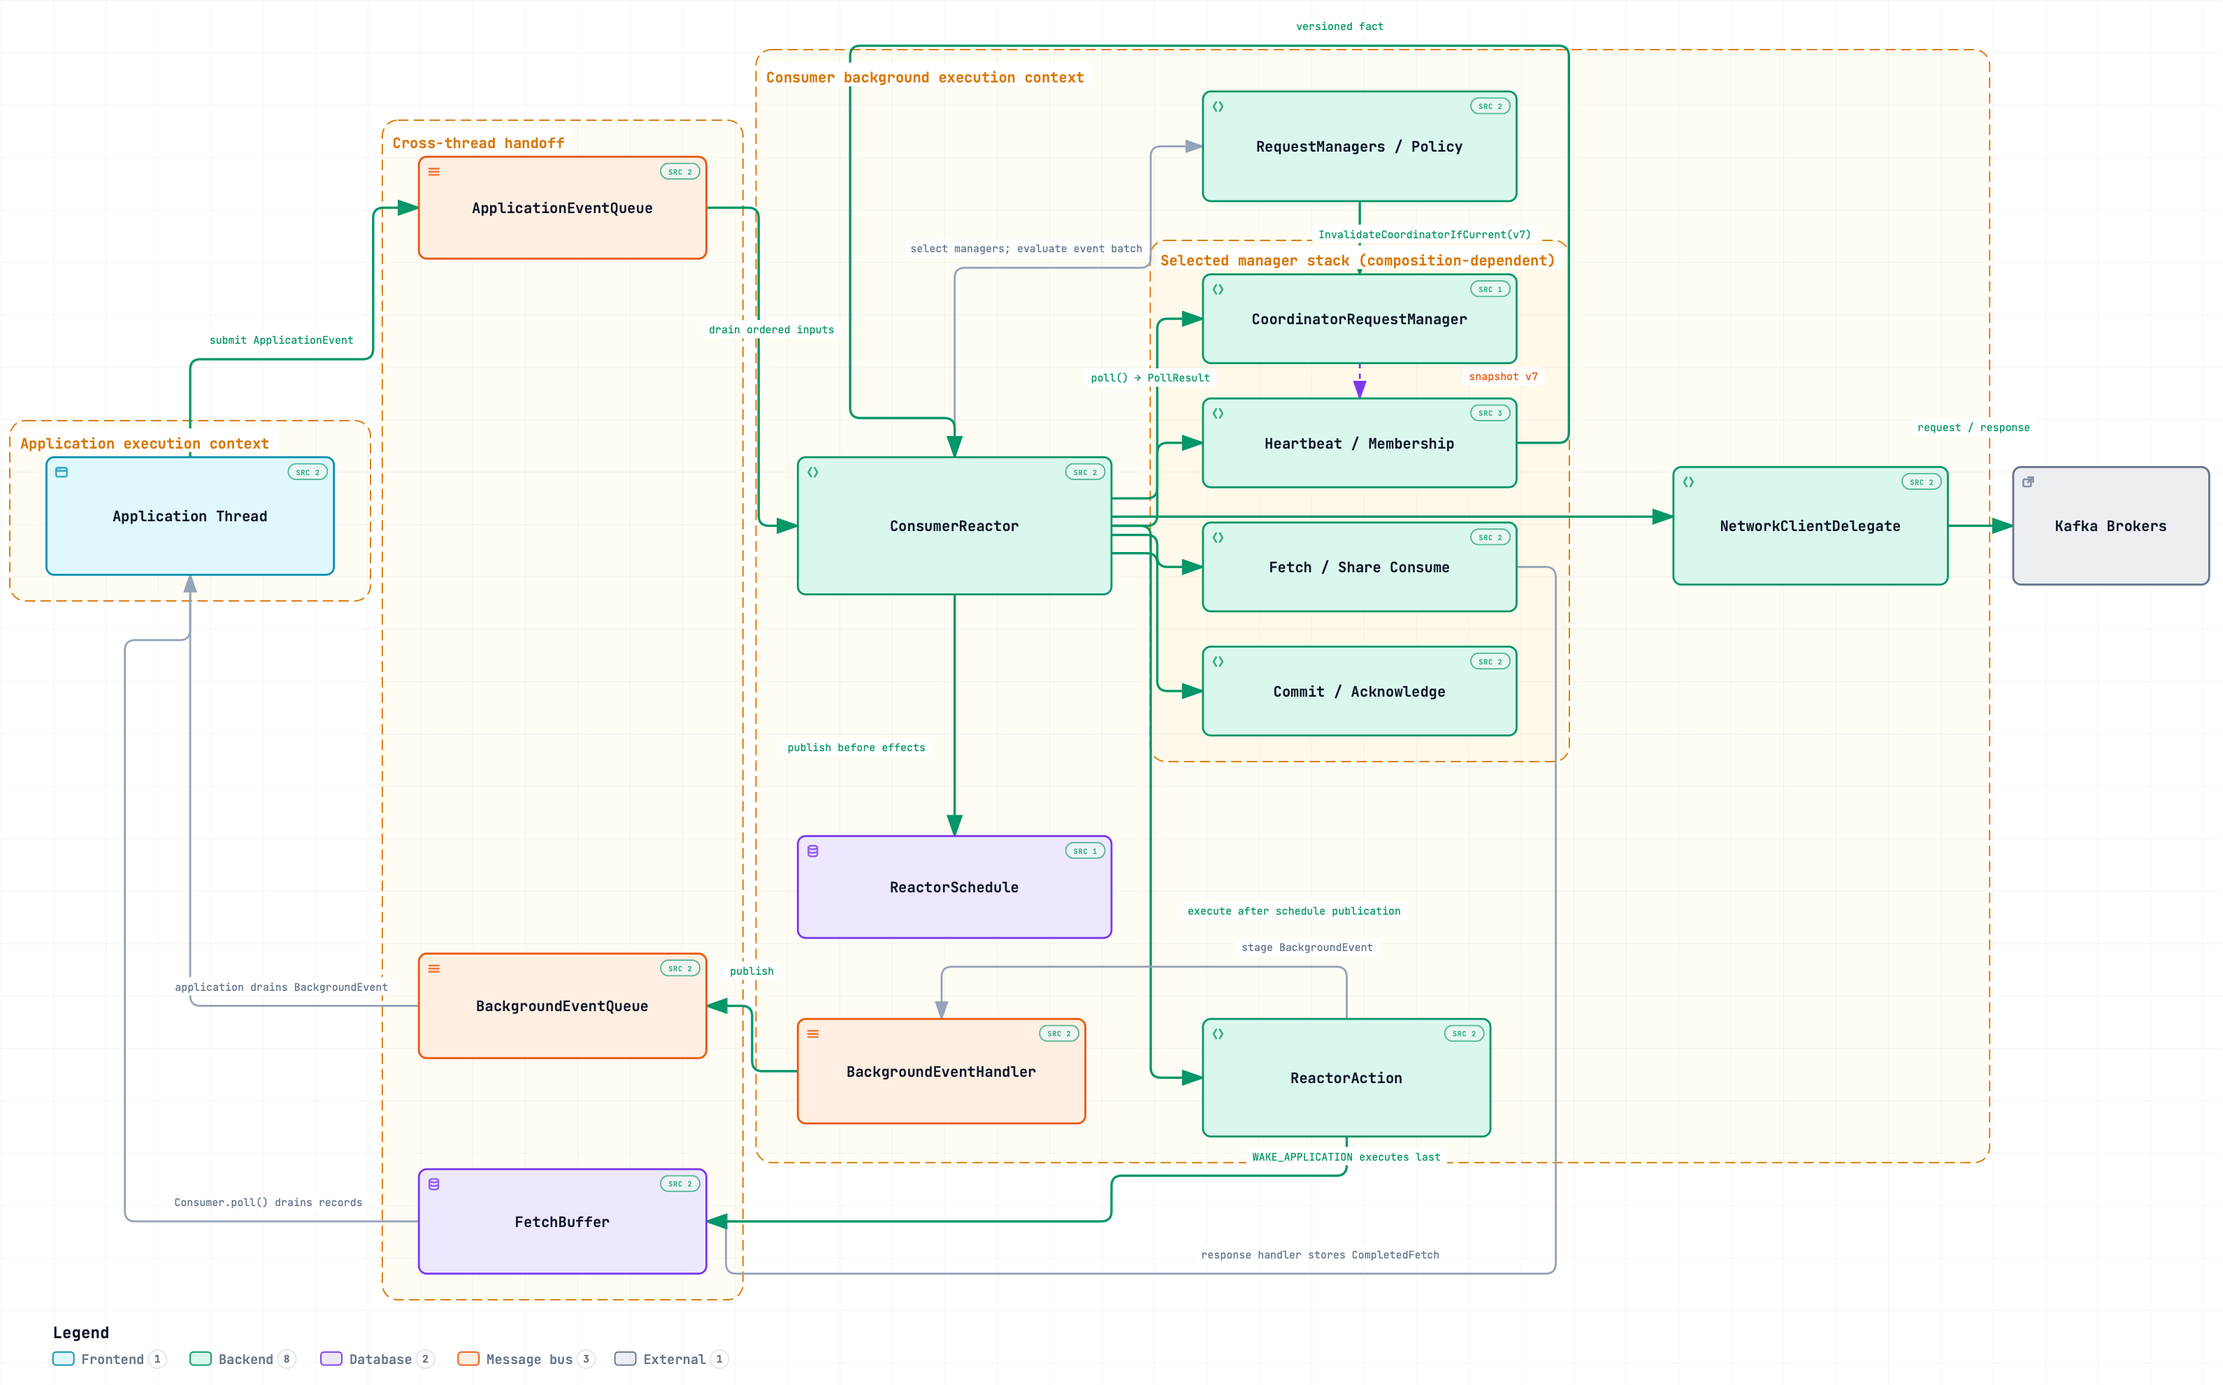
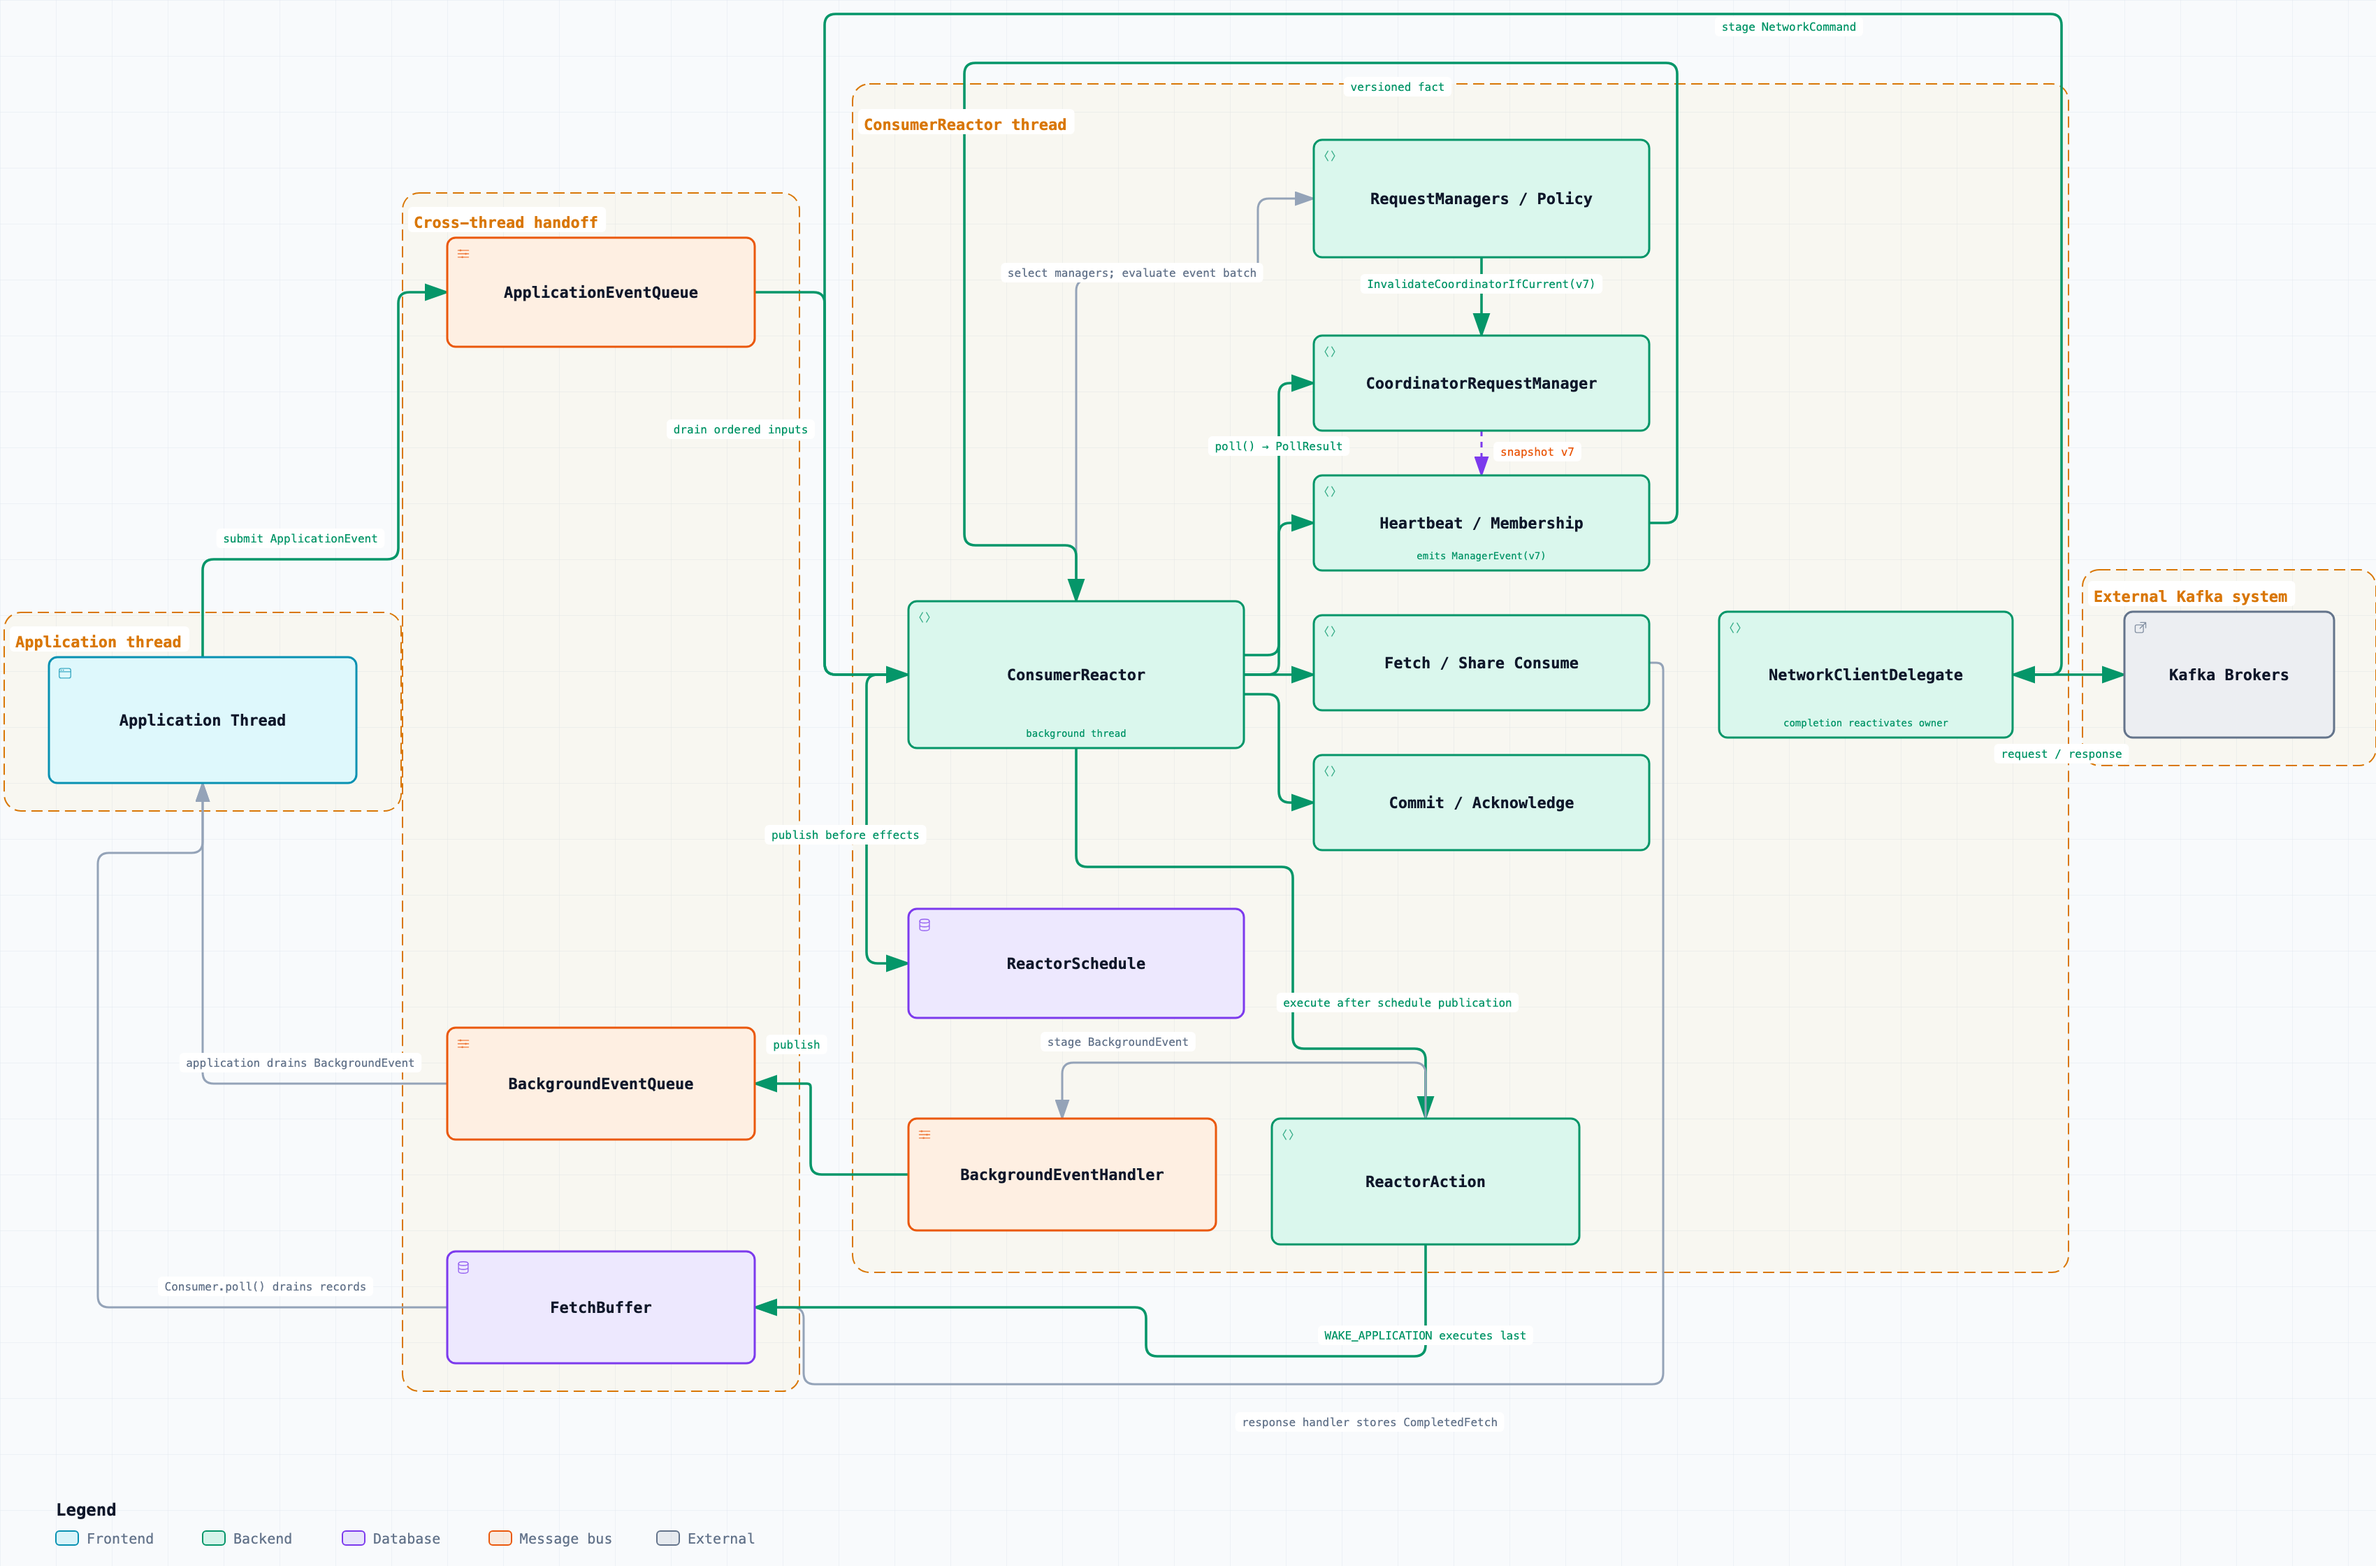
KAFKA-20995: Clarify reactor concurrency model

diff --git a/docs/design/kip-introduce-consumer-reactor-state-management-event-processing.md b/docs/design/kip-introduce-consumer-reactor-state-management-event-processing.md
@@ -27,28 +27,36 @@ Jira: [KAFKA-20995](https://issues.apache.org/jira/browse/KAFKA-20995)
 
 ## Summary
 
-Request-manager waiting has three distinct conditions: work is available now, time may make work eligible, or an
-external input must arrive first. The current deadline-based result records only when another poll may occur. For an
-empty result, it does not identify which condition applies.
+The async consumer already has a reactor-like background loop, but it does not define one concurrency model for
+manager state, progress, waiting, and application-visible effects. Request-manager deadlines record when another poll
+may occur, but an empty result does not distinguish work available now, a time-driven retry, and a wait for external
+input. State and completion paths can consequently publish different parts of one decision in different orders.
 
-The async regular and share consumers already use a background loop and request managers, but wait, wakeup,
-completion, and publication decisions remain distributed across paths that may observe different state. This has
-contributed to busy loops, wakeup defects, stale completion handling, and state-publication races.
+This KIP formalizes the existing loop as `ConsumerReactor`, the final authority for cross-manager input ordering,
+wait aggregation, and application-visible publication. It establishes four behavioral rules:
 
-`ConsumerNetworkThread` already behaves as a reactor-like background loop: it drains application inputs, polls
-request managers, drives network I/O, and processes completions. This KIP formalizes that loop as `ConsumerReactor`,
-the final cross-manager coordination and publication boundary. Managers retain local state and policy while reporting
-produced work and one typed next-poll condition. The reactor orders inputs, combines manager timing into one immutable
-scheduling publication, and then releases the corresponding application-visible effects. During migration, the
-publication carries separate reactor and application-wait projections.
+1. **Single-writer manager state.** Each mutable manager or protocol state has one manager or driver owner executing
+   on the reactor thread. `ConsumerReactor` orders access and invokes the owner; it does not implement that owner's
+   domain policy.
+2. **Published application view.** The application thread reads immutable published state and consumes records or
+   events from explicit cross-thread handoff buffers. It submits commands instead of directly mutating manager or
+   protocol state.
+3. **Typed next-poll condition.** A manager reports produced transport intents or facts together with one explicit
+   next-poll condition: poll immediately with produced output, retry after time can change eligibility, or await an
+   admitted external input.
+4. **Publication before effect.** The reactor publishes the state-derived wait decision before completing, notifying,
+   or waking the application for that decision.
+
+Managers retain local policy. The reactor combines their typed results into one immutable `ReactorSchedule` and then
+executes the corresponding `ReactorAction` values. During migration, the schedule carries separate reactor and
+application-wait projections.
 
 The proposal applies to `AsyncKafkaConsumer`, `ShareConsumerImpl`, and Streams paths using the async background
 kernel. It preserves thread topology, protocols, public consumer APIs, callback execution, and consumer-specific
 rules. `ClassicKafkaConsumer` keeps its existing execution model.
 
-The community decision covers typed manager output, single-owner cross-manager state changes, publication before
-reactor-owned application effects, and the four diagnostic counters in Public Interfaces. Internal class placement,
-protocol-driver extraction, and POC lifecycle experiments remain implementation or follow-up work.
+The community decision covers these four rules and the diagnostic counters in Public Interfaces. Internal class
+placement, protocol-driver extraction, and POC lifecycle experiments remain implementation or follow-up work.
 
 ## Motivation
 
@@ -233,6 +241,11 @@ paths therefore return data, notifications, and wakeups to the application threa
 consumer execution contexts.
 
 ![ConsumerReactor complete execution topology](../images/kip-1371-consumer-reactor-topology.png)
+
+The figure combines two kinds of paths. Broker responses, completed fetches, application-event queues, and
+background-event queues already exist in the async consumer. KIP-1371 adds the explicit coordination boundary shown
+around them: managers publish typed results, the selected composition handles cross-manager facts, and
+`ConsumerReactor` publishes the aggregate wait before executing the corresponding application-visible actions.
 
 | Component | Target responsibility after the KIP |
 | --- | --- |
@@ -625,16 +638,32 @@ Case-study links below use the immutable evidence snapshot
 unless a study names a later revision. Later working-tree experiments are not counted as verified evidence until
 they are committed with a named test result.
 
-### Case study 1: position scope and publication ordering
+### Case study 1: position ownership, scope, and publication ordering
 
 This study covers [KAFKA-17066](https://issues.apache.org/jira/browse/KAFKA-17066),
 [KAFKA-17674](https://issues.apache.org/jira/browse/KAFKA-17674),
 [KAFKA-18641](https://issues.apache.org/jira/browse/KAFKA-18641), and
 [KAFKA-15529](https://issues.apache.org/jira/browse/KAFKA-15529).
 
-**Before.** Assignment, an in-flight offset operation, position mutation, auto-commit snapshot creation, and fetch
-publication could proceed on different paths. An older completion could therefore act on state admitted after its
-request was created, or the application could observe data before the matching position mutation.
+**What the existing fixes established.** These issues were fixed incrementally before KIP-1371:
+
+- KAFKA-17066 moved `updateFetchPositions` from a split application/background workflow into one background-thread
+  operation.
+- KAFKA-17674 restricted an in-flight position update to the partitions admitted by that operation, so a later-added
+  partition was not reset by an older completion.
+- KAFKA-18641 ordered auto-commit snapshot creation before the application continued collecting and advancing
+  positions.
+- KAFKA-15529 updated the consumed position before publishing `CompletedFetch.isConsumed`, so the background thread
+  could not observe a consumed fetch together with an older position.
+
+KIP-1371 does not claim to introduce background ownership of `updateFetchPositions` or to re-fix these issues. They
+show the same recurring requirement at different boundaries: an operation needs an admitted scope, related state
+changes need one observable order, and another thread or manager must not act on a partially published state.
+
+**Historical failure shape.** Before those fixes, assignment, an in-flight offset operation, position mutation,
+auto-commit snapshot creation, and fetch visibility could proceed on different paths. An older completion could act
+on state admitted after its request was created, or another thread could observe a completion marker before its
+matching position mutation.
 
 ```text
 ApplicationEventProcessor assigns tp1
@@ -649,10 +678,11 @@ Fetch or auto-commit concurrently reads position state
   -> application-visible data or a commit snapshot may observe a different ordering
 ```
 
-**After applying the reactor model.** The application input and network completion are separate ordered operations.
-The offset operation retains its admitted partition scope, and the state owner applies only that scope. The next full
-manager pass observes the resulting current state. Any migrated data publication or completion is released only after
-the corresponding state and schedule publication.
+**What the reactor model adds.** The proposal turns those issue-specific repairs into shared rules for new and
+migrated paths. Application input and network completion are separate ordered reactor operations. An asynchronous
+operation retains its admitted partition scope. A manager publishes a typed result rather than independently
+choosing a wait or application effect. The next full manager pass observes the resulting state, and any migrated
+completion or notification is released only after the corresponding state and `ReactorSchedule` publication.
 
 ```text
 ConsumerReactor input phase
@@ -672,8 +702,10 @@ ConsumerReactor next ordered pass
 ```
 
 **Current evidence.** Captured-scope protection is verified through the manager and application-event/reactor paths.
-The position/publication and position-versus-auto-commit races remain partial. Exact tests, baselines, and remaining
-gates are listed in [Appendix A](#appendix-a-poc-evidence-and-open-gates).
+The POC has not yet replaced the established KAFKA-18641 and KAFKA-15529 local synchronization with a reactor-owned
+position publication. Those cases remain regression requirements, not evidence that `ReactorSchedule` alone fixes
+position visibility. Exact tests, baselines, and remaining gates are listed in
+[Appendix A](#appendix-a-poc-evidence-and-open-gates).
 
 ### Case study 2: heartbeat and commit cannot progress yet
 
